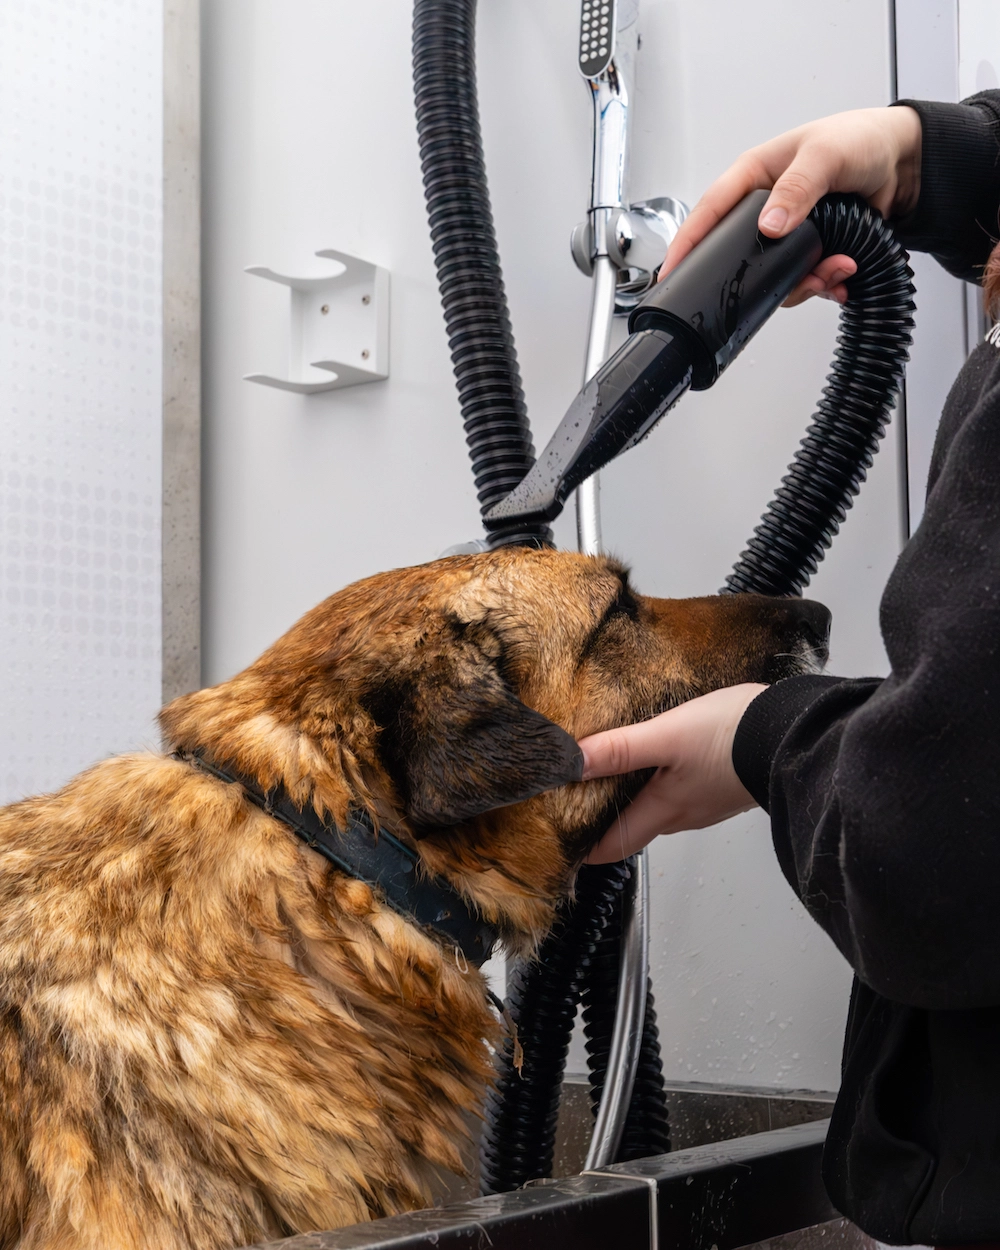
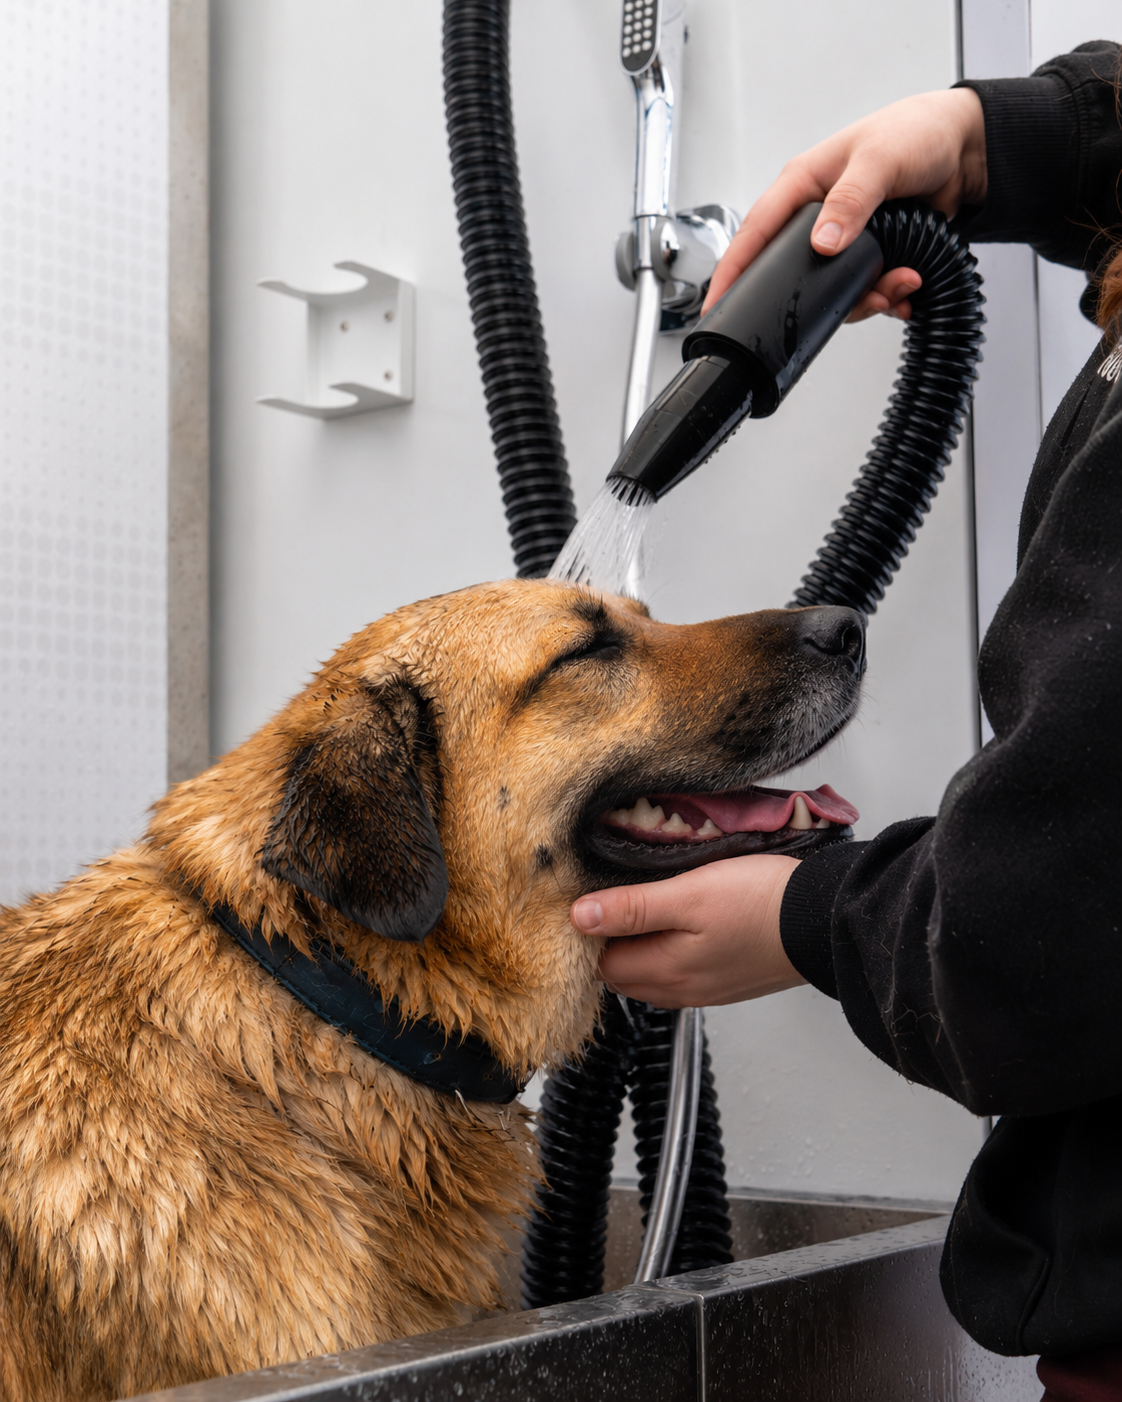
Atualizadas as imagens e textos da galeria

diff --git a/src/components/GallerySection.jsx b/src/components/GallerySection.jsx
@@ -9,19 +9,19 @@ import { Camera, Heart, Sparkles } from 'lucide-react'
 const galleryImages = [
   {
     src: '/images/gallery/pet-1.jpg',
-    alt: 'Pet feliz na Lavau'
+    alt: 'Mais conforto para quem faz parte da família'
   },
   {
     src: '/images/gallery/pet-2.jpg',
-    alt: 'Tutor cuidando do pet'
+    alt: 'Cuidar também é criar momentos juntos'
   },
   {
     src: '/images/gallery/pet-3.jpg',
-    alt: 'Experiência Lavau'
+    alt: 'Tecnologia, conforto e conexão'
   },
   {
     src: '/images/gallery/pet-4.jpg',
-    alt: 'Banho self-service'
+    alt: 'Conveniência pet para a vida moderna'
   },
   {
     src: '/images/gallery/pet-5.jpg',
@@ -37,7 +37,7 @@ const galleryImages = [
   },
   {
     src: '/images/gallery/pet-8.jpg',
-    alt: 'Lavau Experience'
+    alt: 'O cuidado pet evoluiu'
   }
 ]
 